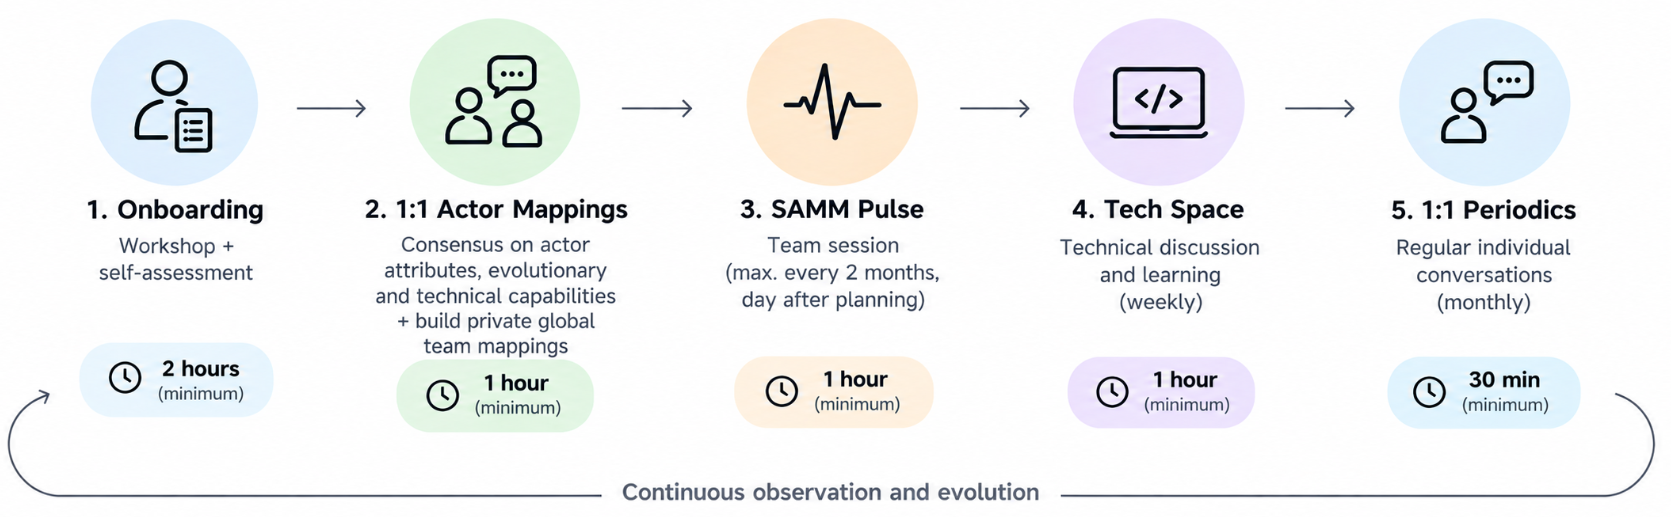
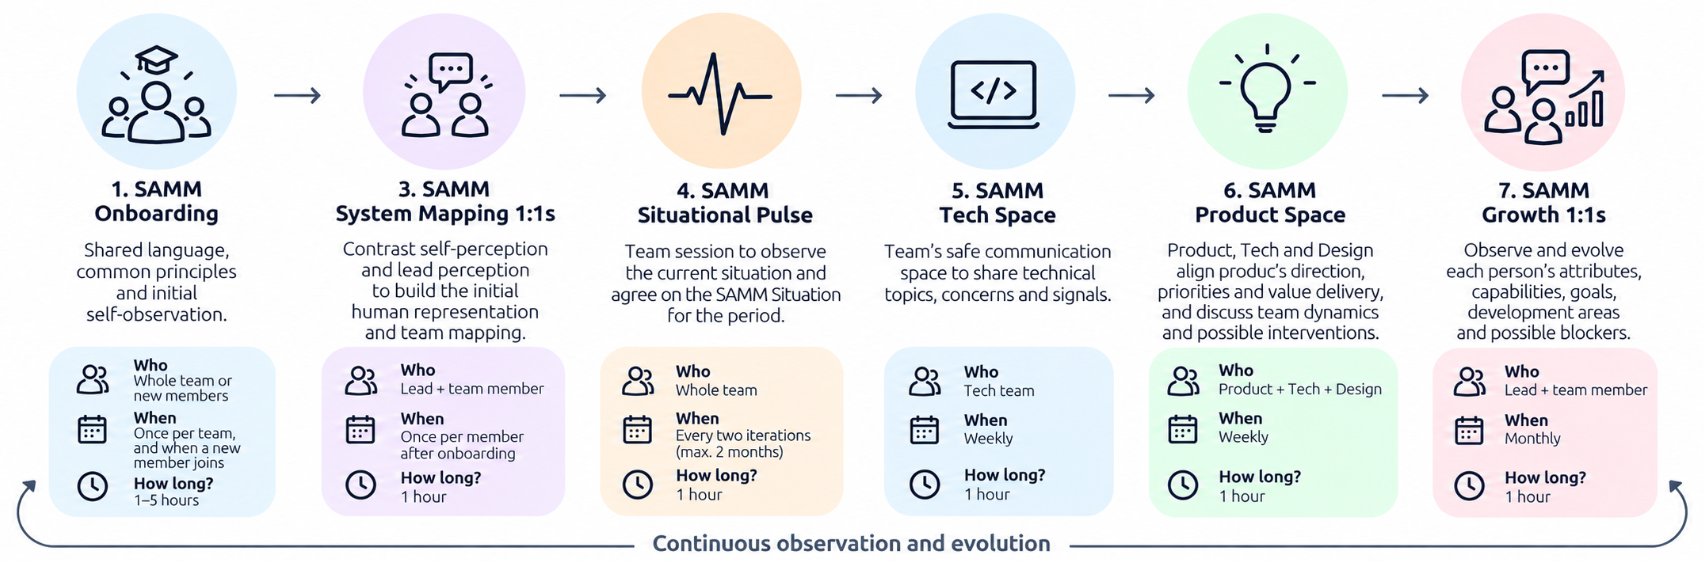
update post

diff --git a/_posts/2026-09-26-common-samm-practices.md b/_posts/2026-09-26-common-samm-practices.md
@@ -1,5 +1,5 @@
 ---
-title: 'Common SAMM Practices'
+title: 'SAMM: Take the First Step'
 date: '2026-09-26T19:00:00+02:00'
 layout: post
 permalink: /common-samm-practices/
@@ -15,6 +15,8 @@ tags:
   - systems-thinking
   - SAMM
 ---
+
+> *Start moving. Observe. Learn. Evolve.*
 
 SAMM was born as a **situational and adaptive model**. Its purpose is not to define a leadership style or tell a lead exactly how to act in every situation.
 
@@ -60,6 +62,10 @@ Onboarding establishes that language and generates the first self-observations t
 
 ### 2.1. SAMM Workshop
 
+_**Who:** The whole team or new members._<br>
+_**When:** once per team, and whenever a new member joins._<br>
+_**How long:** 1-5 hours._
+
 SAMM adoption begins with a workshop where the team is introduced to the essential concepts required to work with the model:
 
 - [**SAMM & Situational Map:**](https://leadingdepth.com/the-situational-map/) the purpose of the model and its proposed situations.
@@ -72,19 +78,15 @@ SAMM adoption begins with a workshop where the team is introduced to the essenti
 - [**SAMM Intervention Roadmap (from situation to intervention):**](https://leadingdepth.com/attention-is-all-you-need-from-situation-to-intervention/) technical debt management and continuous technical improvement.
 - **Common SAMM Practices:** how the evolution of the system will be observed over time.
 
-SAMM uses these mechanisms as **tools for reasoning and adaptation, not as rigid processes**.
-
 The workshop does not aim to explain each theory in depth. Each concept can be explored through its corresponding SAMM content.
 
 Its purpose is to establish **a shared language and common principles before we begin observing ourselves as a system**.
 
 ---
 
-### 2.2. Actor Self-Observation
+### 2.2. Personal Self-Observation
 
-After the workshop, the first observation begins.
-
-SAMM recommends an **individual self-observation questionnaire** where each member describes how they currently perceive themselves through the [Actor Attributes](https://leadingdepth.com/understanding-human-systems-attributes-of-system-actors/):
+Personal **self-observation questionnaire** where each member describes how they currently perceive themselves through the [system actor attributes](https://leadingdepth.com/understanding-human-systems-attributes-of-system-actors/):
 
 - **Role & Knowledge Level:** Low / Medium / High
 - **Mindset:** Fixed / Growth
@@ -92,12 +94,11 @@ SAMM recommends an **individual self-observation questionnaire** where each memb
 - **Learning Shape:** I-Shape / T-Shape
 
 At this point, we are not looking for consensus or a definitive observation.
-
 We are looking for **self-perception**: how each person currently observes themselves within the system.
 
 ### 2.3. Capabilities Self-Observation
 
-In the same questionnaire — or separately — each person performs an initial [**observation of system capabilities**](https://leadingdepth.com/understanding-human-systems-technical-and-evolutionary-system-capabilities/), using a scale from 1 to 5 to represent their current perception.
+In the same questionnaire each person performs an initial [**observation of capabilities**](https://leadingdepth.com/understanding-human-systems-technical-and-evolutionary-system-capabilities/), using a scale from 1 to 5 to represent their current perception.
 
 Two groups are observed:
 
@@ -107,7 +108,11 @@ Two groups are observed:
 
 ---
 
-### 3. SAMM System Mapping
+### 3. SAMM System Mapping 1:1s
+
+_**Who:** Lead + Team member._<br>
+_**When:** once per team member after SAMM Onboarding, and for each new member joining the team._<br>
+_**How long:** 1 hour._
 
 Once the self-observations have been collected, the **System Mapping** begins.
 
@@ -115,28 +120,28 @@ Before each conversation, the lead gathers available observations about each per
 
 The lead contextualizes this information and adds their own observation, building the **Lead Perception**.
 
-An **Initial Actor Mapping 1:1** is then held:
+An **Initial Personal Mapping 1:1** is then held:
 
 **Self-perception ↔ Lead perception**
 
-Actor Attributes and Technical & Evolutionary Capabilities are contrasted, paying particular attention to differences between perspectives.
+**[System Actor Attributes](https://leadingdepth.com/understanding-human-systems-attributes-of-system-actors/) and [Technical & Evolutionary Capabilities](https://leadingdepth.com/understanding-human-systems-technical-and-evolutionary-system-capabilities/) are contrasted**, paying particular attention to differences between perspectives.
 
 The goal is not to determine who is right, but to understand **why different observers may be perceiving something differently**.
 
 > **SAMM should generate conversations, not scores.**
 
-The result is the first **Human Representation** of the system: a starting point that will evolve together with the people and their context.
+The result is the first agreed **Human Representation** of the system: a starting point that will evolve together with the people and their context.
 
 ---
 
-Final Teammate Representation Example
+Personal Representation Example
 <br>
 <center>
 <img src="/wp-content/uploads/samm-common-practices-02-human-representation.png" width="600"/>
 </center>
 <br>
 
-Final Team Representation Example
+Team Representation Example
 <br>
 <center>
 <img src="/wp-content/uploads/samm-common-practices-03-human-representation.png" width="800"/>
@@ -147,15 +152,15 @@ Final Team Representation Example
 
 ## 4. SAMM Situational Pulse
 
+_**Who:** The whole team._<br>
+_**When:** every two iterations, avoiding more than two months between sessions._<br>
+_**How long:** 1 hour._
+
 The **SAMM Situational Pulse is the model's main collective observation practice**.
 
 Its purpose is to periodically stop and understand how people perceive the system, how it is evolving, and which signals may require attention.
 
-SAMM recommends running it **every two iterations**, avoiding more than one or two months between sessions.
-
-The ideal moment is immediately after closing one iteration and starting the next: value has just been delivered, we can observe what happened, and a new cycle is about to begin. Could be the next day of planning meeting.
-
-Recommended minimal duration: **60 minutes**.
+The ideal moment is **immediately after closing one iteration and starting the next**: value has just been delivered, we can observe what happened, and a new cycle is about to begin. For example, the session could take place **the day after the planning meeting**.
 
 The session uses a **shared interactive dashboard** where each member is represented by an icon and can position themselves across the different SAMM observation areas.
 
@@ -169,18 +174,6 @@ The session uses a **shared interactive dashboard** where each member is represe
 
 ---
 
-The dashboard provides a complete view of:
-
-**Challenge / Skills — Flow Theory**
-
-**Arousal / Performance — Yerkes-Dodson**
-
-**Current SAMM Situation**
-
-**Last Iterations / Situational Timeline**
-
-**SAMM Situation Recommendations**
-
 ### 4.1. Challenge / Skills — Flow Theory
 
 Each member positions themselves according to the **challenge they are experiencing** and the **skills they perceive as available to face it**.
@@ -189,9 +182,7 @@ Based on **Flow Theory**, the relationship between Challenge and Skills helps vi
 
 **Flow · Arousal · Control · Relaxation · Boredom · Apathy · Worry · Anxiety**
 
-We are not trying to calculate a team average.
-
-We are trying to **make different perceptions visible**.
+We are not trying to calculate a team average. We are trying to **make different perceptions visible**.
 
 If six people are in Flow and one is in Anxiety, the conclusion should not simply be *"the team is in Flow."*
 
@@ -207,9 +198,7 @@ Each person indicates where they perceive themselves between:
 
 This helps initiate conversations about insufficient activation or challenge, optimal performance conditions, or excessive levels of pressure and activation.
 
-SAMM does not use these models as psychological diagnostic tools.
-
-It uses them as **shared structures for observation and conversation**.
+SAMM does not use these models as psychological diagnostic tools. It uses them as **shared structures for observation and conversation**.
 
 ### 4.3. SAMM Situation
 
@@ -219,13 +208,15 @@ Finally, each member indicates which SAMM Situation best represents their percep
 
 The situations provide a **shared language** for expressing and contrasting how different actors perceive the state of the system.
 
-Significant differences between selected situations are information in themselves: different actors may be experiencing very different realities within the same system.
+Significant differences between selected situations are information in themselves, as different actors may be experiencing very different realities within the same system.
+
+The objective is to discuss these different perceptions and reach a **shared understanding of the situation the team has experienced since the previous SAMM Situational Pulse**. This may require comfortable or uncomfortable conversations, especially when perceptions differ significantly. 
+
+The goal is not to avoid those differences, but to make them visible, understand what lies behind them and, through conversation, **agree on the SAMM Situation** that best represents the team's experience during that period.
 
 ### 4.4. Observing the trajectory
 
-SAMM does not observe only the present.
-
-The dashboard should visually preserve approximately the **last 10 iterations**.
+SAMM does not observe only the present. The dashboard should visually preserve approximately the **last 10 situations**.
 
 ---
 
@@ -259,13 +250,18 @@ And, most importantly:
 
 **Why?**
 
-What changed? What are we perceiving differently? Is motivation changing? Are we increasing challenge too much? Is there enough challenge? Are there individual signals that differ significantly from the rest?
+What changed? 
+What are we perceiving differently? 
+Is motivation changing? 
+Are we increasing challenge too much? 
+Is there enough challenge? 
+Are there individual signals that differ significantly from the rest?
 
-The dashboard also provides SAMM recommendations regarding the expected duration of situations and possible next situations.
+The dashboard also provides **SAMM recommendations regarding the expected duration of situations and possible next situations**.
 
-These recommendations are **guardrails, not transition rules**.
+These recommendations are **guardrails or guideline, not transition rules**.
 
-Context always comes first.
+**Context always comes first.**
 
 > **The dashboard provides signals. The conversation provides understanding.**
 
@@ -287,11 +283,13 @@ Every intervention may change the system and generate a new situation that needs
 
 ## 5. SAMM Tech Space
 
-**Recommended frequency: weekly.**
+_**Who:** Lead + Tech team._<br>
+_**When:** weekly._<br>
+_**How long:** 1 hour._
 
 Tech Space is the team's recurring **safe communication space**.
 
-Each member takes part in an open round where they can share how their week went and raise anything they consider relevant: technical debt, decisions, concerns, knowledge they need or want to share, technical or product areas they do not fully understand, difficulties, frustrations, or simply **how they feel within the team context**.
+Each member takes part in an **open round** where they can share how their week went and raise anything they consider relevant: technical debt, decisions, concerns, knowledge they need or want to share, technical or product areas they do not fully understand, difficulties, frustrations, or simply **how they feel within the team context**.
 
 The lead should actively [manage, prioritise and refine technical debt](https://leadingdepth.com/no-silver-bullet-for-technical-debt/), while encouraging the team to continuously surface new concerns and add them to the shared dashboard.
 
@@ -299,28 +297,48 @@ It is not just a technical meeting. It is where signals can emerge that no dashb
 
 The lead participates **as another member of the system**, helping create an environment where asking questions, disagreeing, admitting uncertainty, requesting help, or raising concerns feels safe.
 
-> **Tech Space is where the system talks.**
+> **Tech Space is where the system talks and trust is built.**
 
 ---
 
-## 6. SAMM Growth 1:1s
+## 6. SAMM Product Space
 
-**Recommended frequency: monthly. Approximate duration: 30 minutes.**
+_**Who:** Lead + Product + Design + Business._<br>
+_**When:** Weekly._<br>
+_**How long:** 30 minutes._
 
-Growth 1:1s are the private space where the evolution of each person can be observed over time: Actor Attributes, Technical & Evolutionary Capabilities, professional goals, growth, and possible limitations.
+Product Space is the recurring **alignment space between product and technology**, where those responsible for the product align its short-, medium-, and long-term direction.
 
-The initial observations from System Mapping **should evolve together with the person**.
+The conversation brings together **product vision, technical state, priorities and value delivery**, making visible anything that could affect the team as a whole or influence the **energy and direction of the system**.
+
+It is also a space to discuss team dynamics, objectives, individual or collective signals, and possible conflicts. Based on these observations, Product and Tech can agree on the interventions needed to support the team while protecting both the product and the business.
+
+This requires a **close and trusted partnership between Product and Tech**. Decisions and interventions should consider not only what the product needs, but also their potential impact on the people and the system that make its evolution possible.
+
+> **Product Space is where product direction and system reality meet.**
+
+---
+
+## 7. SAMM Growth 1:1s
+
+_**Who:** Lead + Team member._<br>
+_**When:** monthly._<br>
+_**How long:** 1 hour._
+
+Growth 1:1s are the private space where the evolution and [energy](https://leadingdepth.com/the-situational-map/#situational-energy) of each person can be observed over time: **System Actor Attributes, Technical & Evolutionary Capabilities, professional goals, and possible limitations or blockers**.
+
+The initial observations from System Mapping **should evolve together with the person**. During these conversations, System Actor Attributes and Technical & Evolutionary Capabilities are observed again, allowing previous perceptions to be revisited and updated as the person and their context evolve.
+
+These observations should be discussed together rather than updated unilaterally. Through conversation and consensus, the person and the lead can build a shared understanding of what has changed, where development is taking place and where additional support may be useful. **Professional goals can then be reviewed and adapted to reflect this evolving representation.**
 
 SAMM Situations can also provide a **shared language for individual conversations** when someone considers their personal context relevant.
 
 For example:
 
 **Professional → Cruising Speed**  
-**Personal → Pressure** (Optional)
+***Personal → Pressure*** *(Optional)*
 
-This is not about observing or intervening in someone's private life.
-
-**The person always decides what they want to share and how far they want to go.**
+This is not about observing or intervening in someone's private life. **The person always decides what they want to share and how far they want to go.**
 
 The purpose is to better understand their context and create space for a simple question:
 
@@ -332,13 +350,13 @@ Growth 1:1s also include bidirectional feedback: what the person should maintain
 
 ---
 
-## 7. A starting point, not a prescription
+## 8. A starting point, not a prescription
 
 SAMM practices generate information that evolves with the system: actors, capabilities, observations, situations, interventions, and **Situational Memory**.
 
-SAMM recommends preserving this information through digital support, with a clear separation between **collective system information** and **individual private information**.
+SAMM recommends preserving this information through **digital support**, with a clear separation between **collective system information** and **individual private information**.
 
-In the near future, **SAMM Tool** will provide specific support for these practices, their history, and detailed information retrieval. Built on top of this memory, AI capabilities will progressively help **detect patterns, explore possible system evolutions, and support decision-making and organizational strategy**.
+In the near future, **SAMM Suite** will provide specific support for these practices, their history, and detailed information retrieval. Built on top of this memory, **AI capabilities** will progressively help **detect patterns, explore possible system evolutions, and support decision-making and organizational strategy**.
 
 These practices are a **starting point, not a prescription**.
 
